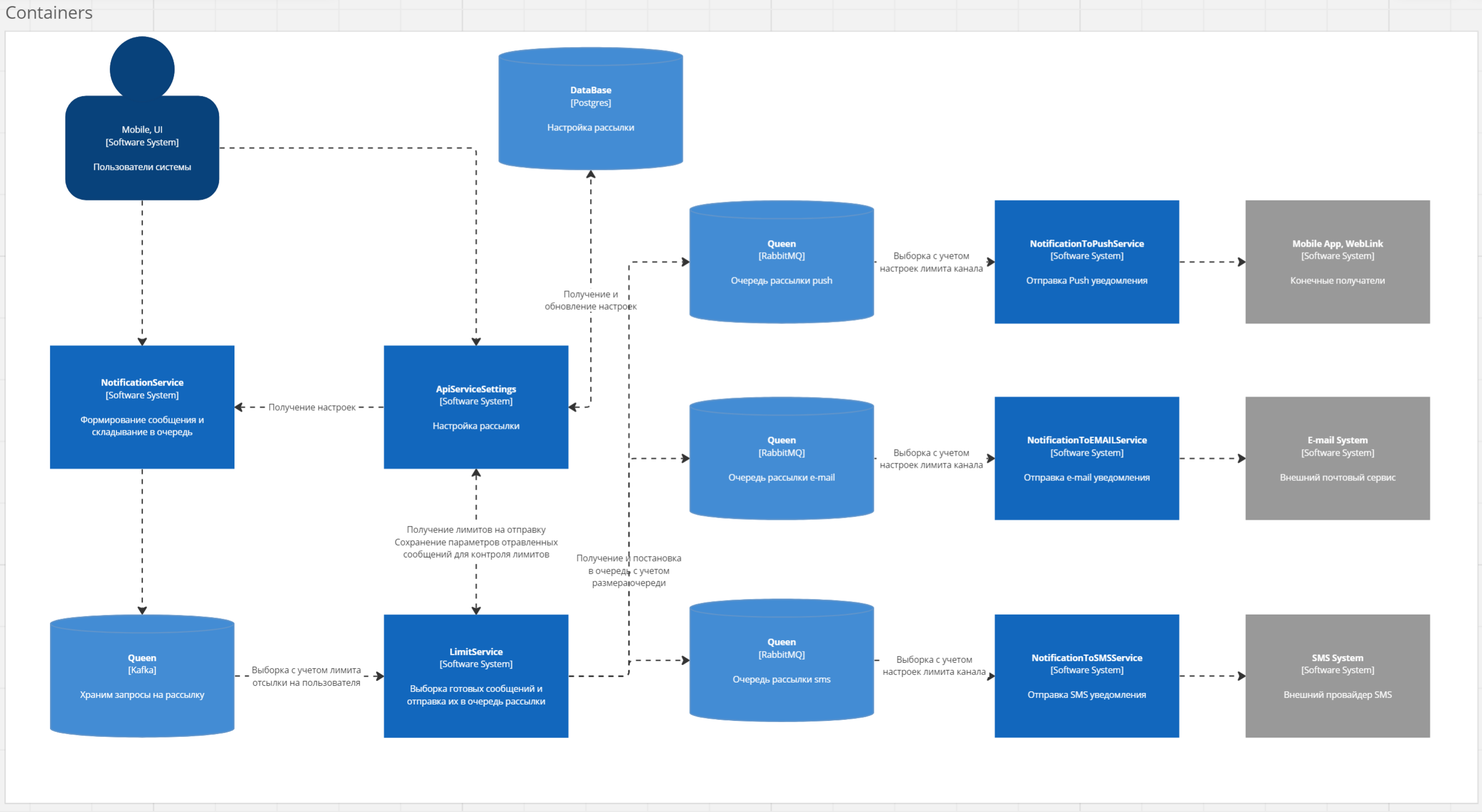
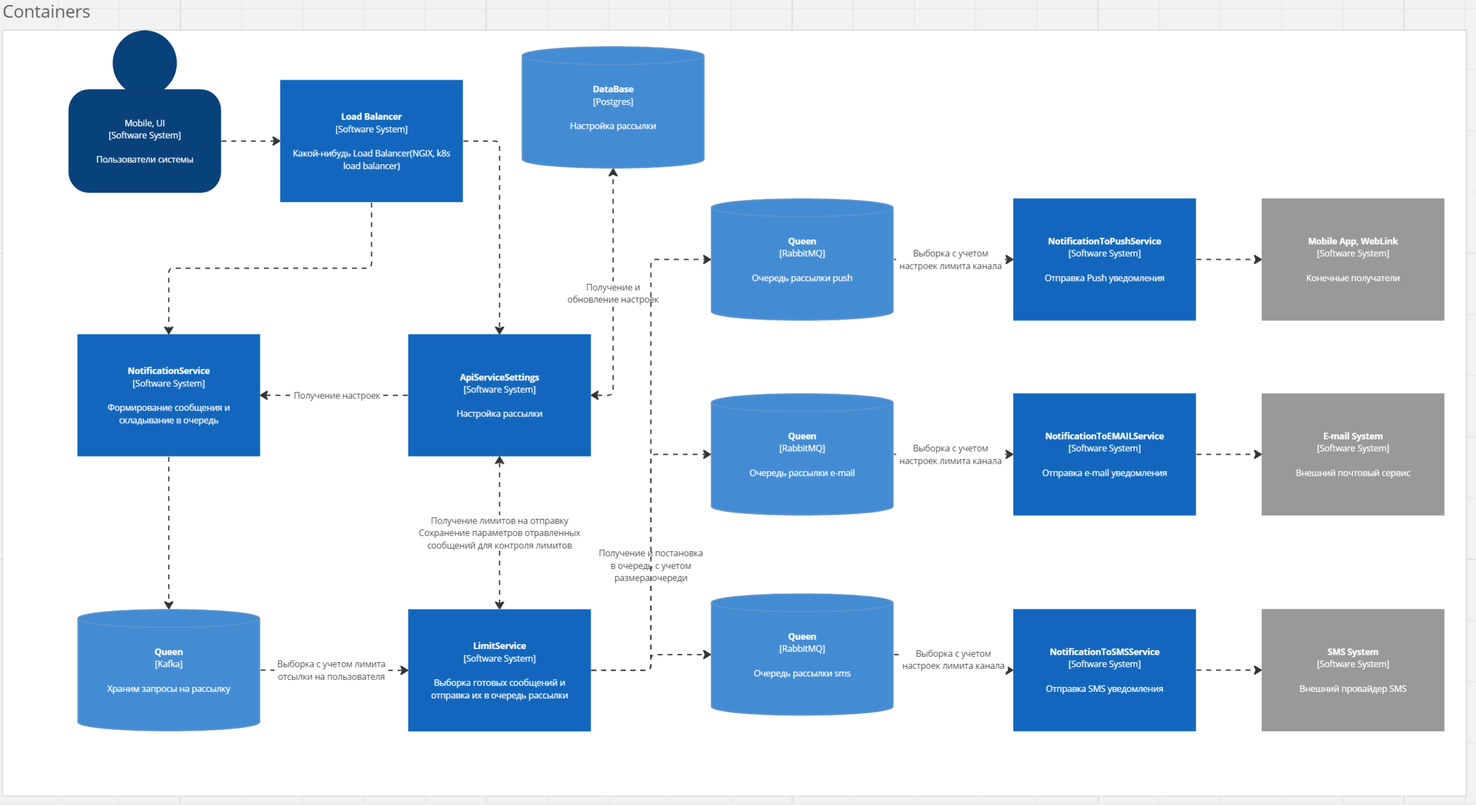
Обновление технического проекта

diff --git a/notificator/software_architecture_document.md b/notificator/software_architecture_document.md
@@ -58,7 +58,7 @@
 - Отправка сообщений.
 - Настроки отправки сообщений.
 ##### Исключено:
-- Интеграция с внешней системой авторизации.
+- Проверка авторизации.
 - Разработка UI для настроек.
 
 ### Требования
@@ -73,7 +73,6 @@
 * *В части настроек*:
     * требуется принимать от пользователя системы настройки по каждому каналу связи для рассылки уведомлений (вкл/выкл, адрес/номер/логин) и учитывать эти настройки при последующих рассылках;
     * хранения пользовательских настроек необходимо предусмотреть хранилище, связанное с пользовательской информацией в других подсистемах;
-    * 
 
 #### Заинтересованные стороны
 
@@ -100,32 +99,24 @@
 > - **Описание:** Четкое и подробное изложение требования, объясняющее, какая конкретная функциональность или поведение ожидается.
 > - **Приоритет:** Определяет важность требования по отношению к другим требованиям. Обычно используются уровни **ВЫСОКИЙ**, **СРЕДНИЙ** и **НИЗКИЙ**. Другие шкалы, такие как **MOSCOW (ОБЯЗАТЕЛЬНО, ЖЕЛАТЕЛЬНО, ВОЗМОЖНО, НЕ ТРЕБУЕТСЯ)**, также могут быть использованы в зависимости от организационных предпочтений.
 
-|              Группа               | ID | Описание                                                                                                                     | Приоритет |
-|:---------------------------------:| :-: |:-----------------------------------------------------------------------------------------------------------------------------| :-: |
-|   Обработка запроса оповещения    | F001 | Регистрация офис-менеджера по секретному коду                                                                                | ВЫСОКИЙ |
-|         Доступ к системе          | F002 | Добавление логина сотрудника в системе                                                                                       | ВЫСОКИЙ |
-|         Доступ к системе          | F003 | Получение списка сотрудников в системе                                                                                       | СРЕДНИЙ |
-|         Доступ к системе          | F004 | Удаление логина сотрудника в системе                                                                                         | СРЕДНИЙ |
-|         Доступ к системе          | F005 | Получение информации о сотруднике в системе                                                                                  | СРЕДНИЙ |
-|         Доступ к системе          | F006 | Доступ по логину сотруднику                                                                                                  | ВЫСОКИЙ |
-|         Доступ к системе          | F007 | Доступ по логину офис-менеджеру                                                                                              | ВЫСОКИЙ |
-|         Доступ к системе          | F008 | Добавление секретного кода для регистрации офис-менеджера                                                                    | ВЫСОКИЙ |
-|        Настроки оповещений        | F101 | Добавление схемы парковки с кодовыми обозначениями парковочных мест                                                          | ВЫСОКИЙ |
-| Управление базой парковачных мест | F102 | Удаление схемы парковки с кодовыми обозначениями парковочных мест                                                            | Обязательно |
-| Управление базой парковачных мест | F103 | Добавление парковочных мест                                                                                                  | ВЫСОКИЙ |
-| Управление базой парковачных мест | F104 | Удаление парковочных мест                                                                                                    | Обязательно |
-| Управление базой парковачных мест | F105 | Установка лимитов на количество бронирований в месяц для сотрудника                                                          | Обязательно |
-|         Контроль лиммитов         | F201 | Настройка шаблона письма для автоматической повторяющейся отправки информации о бронированиях                                | Обязательно |
-|    Отправка поставщику канала     | F202 | Настройка адресов получателя для автоматической повторяющейся отправки информации о бронированиях                            | Обязательно |
-|       Настройка оповещений        | F203 | Установка времени для автоматической повторяющейся отправки информации о бронированиях                                       | Обязательно |
-|       Настройка оповещений        | F204 | Установка времени для автоматической повторяющейся отправки информации о бронированиях на пост охраны                        | Обязательно |
-|       Настройка оповещений        | F205 | Настройка адресов получателя для автоматической повторяющейся отправки информации о бронированиях на пост охраны             | Обязательно |
-|   Отправка поставщику канала   | F301 | Запрос списка доступных для бронирования мест на выбранную дату вместе со схемой парковки                                    | ВЫСОКИЙ |
-|   Бронирование парковачных мест   | F302 | Запрос остатка  дней бронирования в текущем месяце                                                                           | СРЕДНИЙ |
-|   Бронирование парковачных мест   | F303 | Просмотр своих бронирований парковочных мест на корпоративной парковке                                                       | СРЕДНИЙ |
-|   Бронирование парковачных мест   | F304 | Создание бронирований парковочных мест на корпоративной парковкех                                                            | ВЫСОКИЙ |
-|   Бронирование парковачных мест   | F305 | Перенос бронирований парковочных мест на корпоративной парковке                                                              | СРЕДНИЙ |
-|   Бронирование парковачных мест   | F306 | Отмена бронирований парковочных мест на корпоративной парковкех                                                              | СРЕДНИЙ |
+|                Группа                 |  ID  | Описание                                                                                                    | Приоритет |
+|:-------------------------------------:|:----:|:------------------------------------------------------------------------------------------------------------| :-: |
+|     Обработка запроса оповещения      | F001 | Возможность оправлять оповещения                                                                            | ВЫСОКИЙ |
+|     Обработка запроса оповещения      | F002 | Можно отправлять одно оповещения нескольким пользователям                                                   | ВЫСОКИЙ |
+|     Обработка запроса оповещения      | F003 | Можно отправлять одно оповещение в несколько каналов                                                        | СРЕДНИЙ |
+|     Обработка запроса оповещения      | F004 | При не удаче отправки оповещения, отправлять повторно                                                       | СРЕДНИЙ |
+|          Настроки оповещений          | F101 | Настроить включенные для пользователя каналы                                                                | СРЕДНИЙ |
+|          Настроки оповещений          | F102 | Настроить e-mail адреса пользователя                                                                        | ВЫСОКИЙ |
+|          Настроки оповещений          | F103 | Настроить номер телефона пользователя                                                                       | ВЫСОКИЙ |
+|          Настроки оповещений          | F104 | Насторить логин для пуш уведомлений на устройства                                                           | ВЫСОКИЙ |
+|          Настроки оповещений          | F105 | Настрока  шаблона e-mail                                                                                    | СРЕДНИЙ |
+|          Настроки оповещений          | F106 | Настрока  длины и действий при длинном смс (рабивать ли?)                                                   | ВЫСОКИЙ |
+|          Настроки оповещений          | F107 | Настрока  максимальной длины push уведомления                                                               | ВЫСОКИЙ |
+|          Настроки оповещений          | F108 | Настройка лимита сообщений пользователю по каналу и общего                                                  | СРЕДНИЙ |
+|          Настроки оповещений          | F109 | Настройка лимита канала поставщика услуг                                                                    | ВЫСОКИЙ |
+|           Контроль лиммитов           | F201 | Проверять выдавать ошибку если при запросе сообщение превышает лимит символов в котором его хотят отправить | ВЫСОКИЙ |
+|           Контроль лиммитов           | F202 | Контролировать лимиты на отсылку сообщений пользователю                                                     | СРЕДНИЙ |
+|           Контроль лиммитов           | F203 | Контролировать лимиты на отсылку сообщений поставщику канала                                                | ВЫСОКИЙ |
 
 
 #### Нефункциональные требования
@@ -138,14 +129,12 @@
 > - **Описание:** Четкое и подробное изложение требования.
 > - **Приоритет:** Определяет важность требования по отношению к другим требованиям. Обычно используются уровни **ВЫСОКИЙ**, **СРЕДНИЙ** и **НИЗКИЙ**. Другие шкалы, такие как **MOSCOW (ОБЯЗАТЕЛЬНО, ЖЕЛАТЕЛЬНО, ВОЗМОЖНО, НЕ ТРЕБУЕТСЯ)**, также могут быть использованы в зависимости от организационных предпочтений.
 
-| Группа | ID | Описание | Приоритет |
-| :-: | :-: | :- |:---------:|
-| Responsiveness | NFR-001 | Время реакции системы для 95% действий пользователей не должно превышать 2 секунды |  Высокий  |
-| Безопасность     | U001 | Пользователи проходят авторизацию в системе               |  Высокий  |
-| Безопасность     | U002 | Добавлние секретных кодов не доступно пользователям       |  Средний  |
-| Производительность     | U101 | 18 пользователей                                          |  Высокий  |
-| Масштабируемость     | U201 | Иметь возможность маштобироваться до 10 000 пользователей |  Высокий  |
-| Интерация     | U301 | Интеграция с внешней системой аутентификации                 |  Низкий   |
+|       Группа       | ID | Описание                                            | Приоритет |
+|:------------------:| :-: |:----------------------------------------------------|:---------:|
+|    Безопасность    | U001 | Проверять токен авторизации в AuthenticationService |  Высокий  |
+| Производительность | U101 | Требования к нагрузке 1000 RPS                      |  Высокий  |
+|  Масштабируемость  | U201 | Иметь возможность горизонтально маштабироваться     |  Высокий  |
+|     Интерагция     | U301 | Писать логи в Elastic                               |  Высокий   |
 
 #### Ограничения
 
@@ -156,11 +145,13 @@
 > - **ID:** Уникальный идентификатор для каждого ограничения
 > - **Описание:** Четкое и подробное описание ограничения.
 
-| Тип | ID | Описание |
-| :-: | :-: | :- |
-| Сроки   | R001 | 4 недели на разработку           |
-| Ресурсы | R101 | 20  человеко-часов на разработку |
-| Границы проекта | R201 | Реализуем HTTP API без UI        |
+| Тип |  ID  | Описание                                                                 |
+| :-: |:----:|:-------------------------------------------------------------------------|
+| Сроки   | R001 | 2 месяца на разработку                                                   |
+| Ресурсы | R101 | 1280  человеко-часов на разработку                                       |
+| Границы проекта | R201 | Авторизация по токену, проверяем во внешней системе                      |
+| Границы проекта | R202 | Пишем логи в ELK стек, так же как в других компонентах                   |
+| Границы проекта | R203 | Контролом попадания в спам занимается внешний поставщик e-mail рассылок  |
 
 #### Предположения
 
@@ -170,10 +161,10 @@
 > - **ID:** Уникальный идентификатор для каждого предположения для легкого его учета.
 > - **Описание:** Четкое и краткое изложение предположения.
 
-|  ID  | Описание                                                                                             |
-|:----:|:-----------------------------------------------------------------------------------------------------|
-| A001 | Пользовательский трафик увеличится на 1000% в первые шесть месяцев после развертывания.              |
-| A002 | Существующая IT-команда обладает необходимыми навыками для поддержки и обслуживания новой платформы. |
+|  ID  | Описание                                                                                          |
+|:----:|:--------------------------------------------------------------------------------------------------|
+| A001 | Есть сильные сезонные колебания, нужно учесть возможность гибкого маштабирования                  |
+| A002 | Существующая IT-команда обладает необходимыми навыками для поддержки и обслуживания новой системы |
 
 ---
 
@@ -208,3 +199,19 @@
 
 Результаты последующих встреч
 * [Выбор протокола взаимодействия](adr_6.md)
+
+
+### Оценка прототипа
+
+Шаги оценки прототипа 
+
+* *Производительность*:
+  * оценить нагрузку(1000 rps) и время до отпраки;
+  * оценить время до отпраки при увеличении нагрузки(10000 rps);
+  * проверить работу маштабирования в системе k8s;
+  * полноту мониторинга и логирования, а так же работу при нештатных ситуациях;
+* *Соотвествие требованиям*:
+  * проверить обратную связь от клиентов;
+  * собрать обратную связь от разработчиков;
+  * собрать обратную связь от группы поддержки;
+  * собрать обратную связь от бизнеса;

diff --git a/notificator/adr_2.md b/notificator/adr_2.md
@@ -14,10 +14,12 @@
 
 #### Контекст:
 После изучения различных вариантов хранения готовых к отправке сообщений было принято решение использовать Kafka,
-так как она позволяет гарантировать доставку сообщений и имеет высокую производительность. Так же Kafka позволяет гарантировать доставку сообщений в случае падения сервисов.
-Так же она имеет возможность разделения на Topic поэтому в ней удобно сразу разделить потоки SMS, E-Mail и Push-уведомлений.
+Так как она позволяет гарантировать доставку сообщений и имеет высокую производительность. Так же Kafka позволяет гарантировать доставку сообщений в случае падения сервисов.
+Так же она имеет возможность разделения на Topic поэтому в ней удобно сразу разделить потоки SMS, E-Mail и Push-уведомлений. Так же Kafka позволяет выранить нагрузку отправки сообщений в пики сезонов.
 
 Для регулирования лимитов и учета отправленных сообщений было принято решение выделить отдельный сервис LimitService. Для учета лимитов принято решение использовать готовую базу с настройками.
+Котроль лимита отправки по пользовтелю за счет учета отправленных сообщений в базе данных. Система выбирает сообщения из очереди проверяет лититы отправки по пользователям.
+В случае превышения лимита, перекладывает сообщениче в топик ожидания. Сервис LimitService вычитывает сообщения из топика ожидания раз в N минут и отправляет их в топик готовых к отправке, если лимит освободился.
 
 #### Последствия:
 

diff --git a/notificator/adr_4.md b/notificator/adr_4.md
@@ -15,6 +15,8 @@
 #### Контекст:
 При обсуждении маштобирования и управления лимитами каналов. Выяснилось что количество push сообщений кратно превосходит остальные, поэтому нужно иметь возможность маштабировать отправку данного типа сообщений
 Так же для канала SMS требуется четкие ip адреса для отправки сообщений, что может быть затруднительно в случае маштобирования.
+Будем учитывать лимиты каналов в конфигах сервисов
+Котроль повторных отправок будем производить через очередь. Подтверждения чтения из очереди только после подтверждения в от постащика канала.
 
 #### Последствия:
 

diff --git a/notificator/adr_5.md b/notificator/adr_5.md
@@ -14,7 +14,7 @@
 #### Контекст:
 После обсуждения с коллегами было принято решение выделить 4 слоя в сервисе NotificationService:
 * [Слой NotificationController получения сообщений от внешней системы]
-* [Слой AddSettingToNotifacation получения настроек из DataBase и добавления их к сообщению]
+* [Слой AddSettingToNotifacation получения настроек из ApiServiceSettings и добавления их к сообщению]
 * [Слой SeparateNotifacation приминения шаблонов, выделение нужного количестваи типов сообщений определение настроек адресатов]
 * [Слой AddToQueen сохранение сообщений в очередь Kafka]
 

diff --git a/notificator/adr_1.md b/notificator/adr_1.md
@@ -9,8 +9,10 @@
 * [Френки Штейн]
 
 #### Решения:
-* [Хранить настройки в базе данных Postgres] 
+* [Хранить настройки в базе данных Postgres]
+* [Возможность маштабирования Postgres за счет шардирования по пользователям]
 * [Выделить отдельно сервис получения и подготовки сообшений и получения запросов NotificationService и сервис настроек ApiServiceSettings]
+* [Все сервисы Stateless для удобства маштабирования]
 
 #### Контекст:
 База данных выбрана исходя из универсальности и опыта использования в компании
